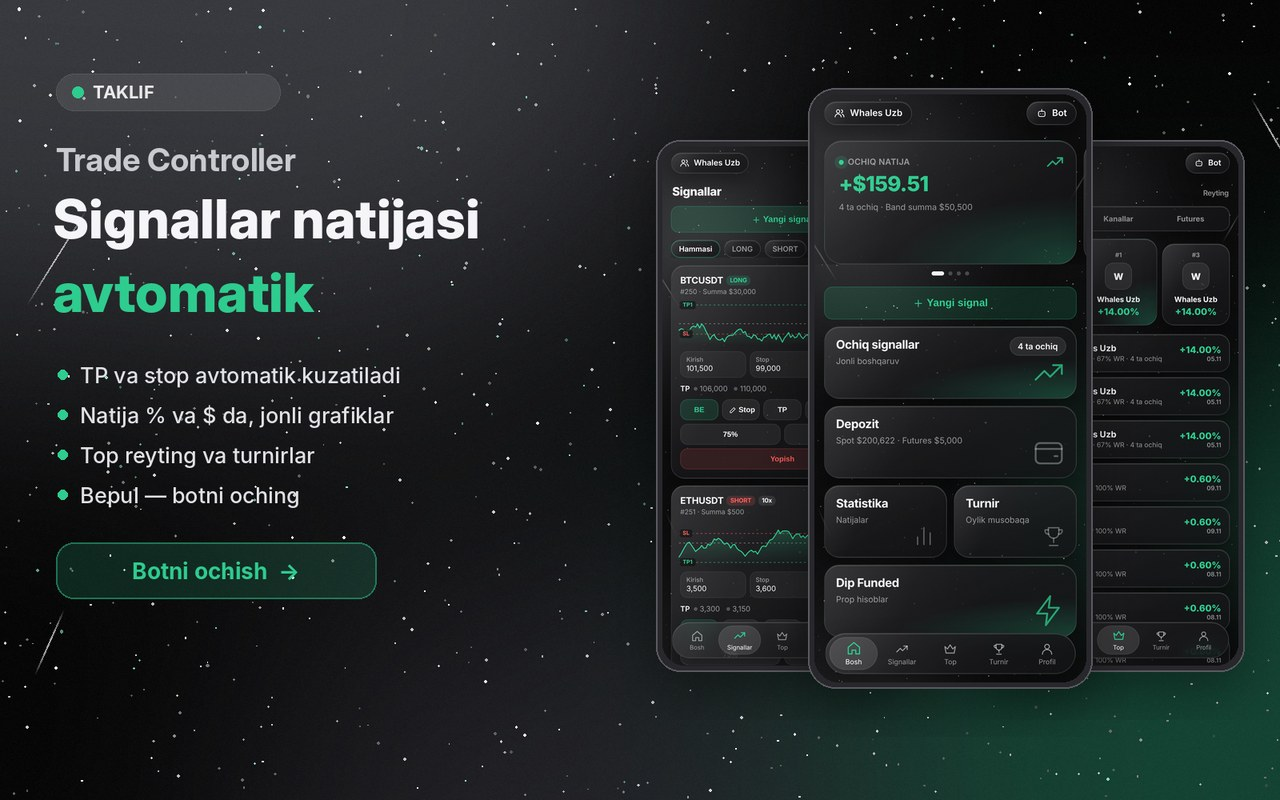
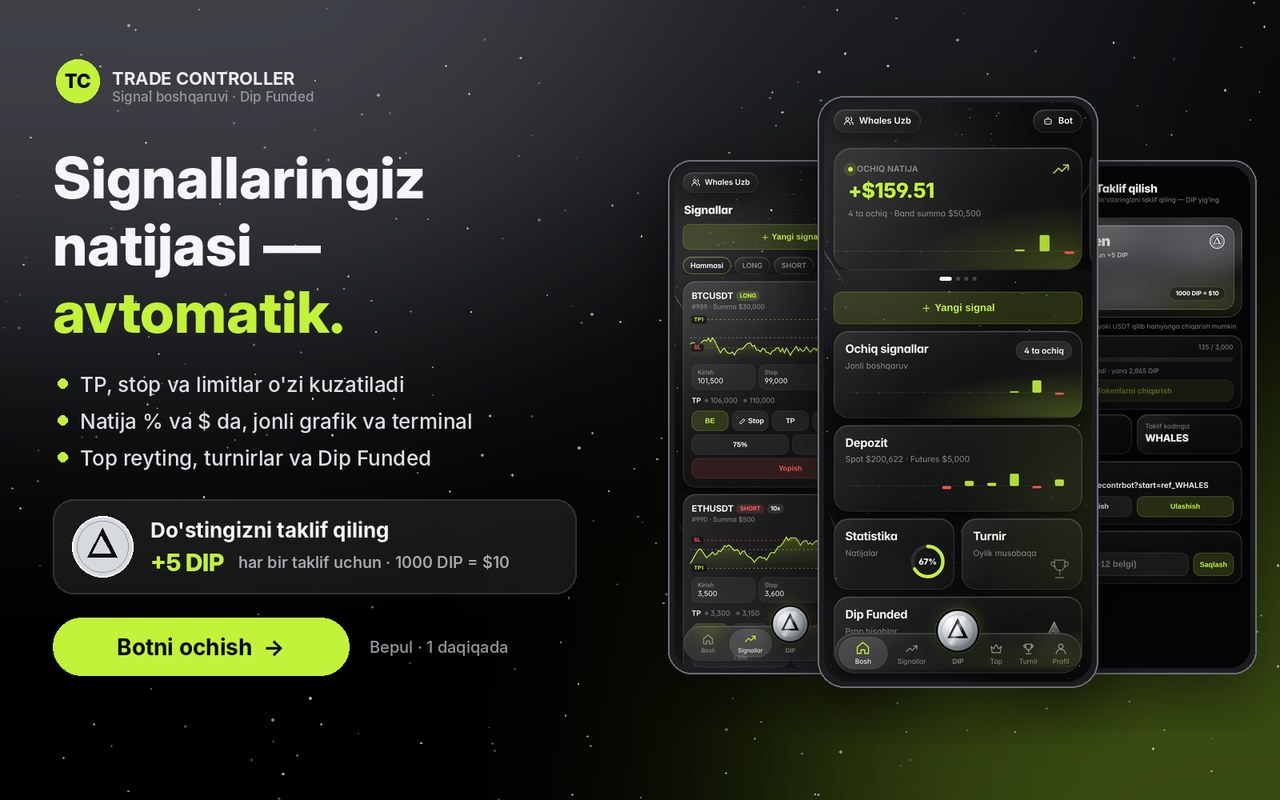
Taklif posti rasmi yangi uslubda: lime aksent, DIP taklifi, yangi skrinshotlar (304)
Claude-Session: https://claude.ai/code/session_01L5NUTkWfmb7CHUXySzbLXX

diff --git a/i18n.py b/i18n.py
@@ -1731,15 +1731,15 @@ STRINGS: dict[str, dict[str, str]] = {
     "ref.share_caption": {
         "uz": ("🚀 <b>Trade Controller</b> — signallaringiz natijasini avtomatik kuzatadigan bot\n\n"
                "✅ TP va stop avtomatik kuzatiladi\n📊 Natija % va $ da, statistika va hisobotlar\n"
-               "🏆 Top reyting, turnirlar va Dip Funded\n📱 Qulay ilova\n\n"
+               "🏆 Top reyting, turnirlar va Dip Funded\n💎 Taklif uchun DIP token — Dip Funded tokeni\n📱 Qulay ilova\n\n"
                "Men foydalanyapman — siz ham sinab ko'ring 👇"),
         "ru": ("🚀 <b>Trade Controller</b> — бот, который автоматически ведёт результаты ваших сигналов\n\n"
                "✅ TP и стоп отслеживаются автоматически\n📊 Результат в % и $, статистика и отчёты\n"
-               "🏆 Топ-рейтинг, турниры и Dip Funded\n📱 Удобное приложение\n\n"
+               "🏆 Топ-рейтинг, турниры и Dip Funded\n💎 DIP токены за приглашения — токен Dip Funded\n📱 Удобное приложение\n\n"
                "Я пользуюсь — попробуйте и вы 👇"),
         "en": ("🚀 <b>Trade Controller</b> — the bot that tracks your signal results automatically\n\n"
                "✅ TP and stop tracked automatically\n📊 Results in % and $, stats and reports\n"
-               "🏆 Top ranking, tournaments and Dip Funded\n📱 Handy app\n\n"
+               "🏆 Top ranking, tournaments and Dip Funded\n💎 DIP tokens for invites — the Dip Funded token\n📱 Handy app\n\n"
                "I use it — give it a try 👇"),
     },
     "ref.share_btn": {"uz": "🚀 Botni ochish", "ru": "🚀 Открыть бота", "en": "🚀 Open the bot"},

diff --git a/bot.py b/bot.py
@@ -948,8 +948,8 @@ async def _app_refshare(ctx, uid: int, lang) -> tuple[bool, str]:
     from telegram import InlineQueryResultPhoto
     import uuid as _uuid
     res = InlineQueryResultPhoto(
-        id=_uuid.uuid4().hex[:32], photo_url=f"{config.WEB_URL}/invite.jpg?v=1",
-        thumbnail_url=f"{config.WEB_URL}/invite.jpg?v=1", photo_width=1280, photo_height=800,
+        id=_uuid.uuid4().hex[:32], photo_url=f"{config.WEB_URL}/invite.jpg?v=2",
+        thumbnail_url=f"{config.WEB_URL}/invite.jpg?v=2", photo_width=1280, photo_height=800,
         caption=i18n.t("ref.share_caption", lang), parse_mode=ParseMode.HTML,
         reply_markup=InlineKeyboardMarkup([[InlineKeyboardButton(
             i18n.t("ref.share_btn", lang), url=link, api_kwargs={"style": "success"})]]))

diff --git a/CLAUDE.md b/CLAUDE.md
@@ -7786,3 +7786,10 @@ ro'yxatdan o'tkazadi (#12 ga qarang). Qolganlari `.env.example` da.
 - Foydalanuvchi: "Diptoken logosini Dipfunded logosiga mosla. Chunki u dipfundedning tokeni."
 - `webapp.html`: `dipCoinFace()` (nav'dagi kumush tanga) va `dipCoin()` (DIP kartasi) ichidagi "D" harfi o'rniga Dip Funded uchburchagi (`dfLogo` bilan bir xil path, evenodd teshik bilan), `<g transform>` orqali 40x40 ga sig'dirilgan. Rang `currentColor`.
 - 303b: "logo tanga o'rtasiga, kichik bo'lib pastga osilib qolgan" — uchburchak endi aylana markazi (553,552) bo'yicha joylashtiriladi (bbox markazi emas — uchburchakda u pastga og'diradi). Nav tangada svg 40px, scale .058; DIP kartasida scale .035 (ichki halqaga sig'adi).
+
+## 304. Taklif posti rasmi — yangi uslub
+- Foydalanuvchi: "Taklif kartasini ham o'zgartiraylik odamni jalb qiladigan. Ranglarini ham yangi dizaynga ko'chir."
+- `static/invite.jpg` (1280x800) qayta chizildi: fon #050506, aksent lime #C2F23A (eski yashil o'rniga), "TC" belgisi + TRADE CONTROLLER, sarlavha "Signallaringiz natijasi — avtomatik.", 3 ta afzallik, shisha karta "Do'stingizni taklif qiling · +5 DIP · 1000 DIP = $10" (tanga ichida Dip Funded uchburchagi), lime "Botni ochish →" tugmasi; o'ngda joriy ilovaning 3 ta skrinshoti (Signallar, Bosh, Taklif), markaziy telefon ortida lime nur.
+- Telegram rasmni URL bo'yicha keshlaydi, shuning uchun `_app_refshare` dagi URL `invite.jpg?v=2` qilindi.
+- `ref.share_caption` ga "💎 Taklif uchun DIP token — Dip Funded tokeni" qatori (uz/ru/en).
+- Rasmdagi "+5 DIP" qattiq yozilgan: `DIP_PER_REF` o'zgarsa rasmni ham yangilash kerak.
